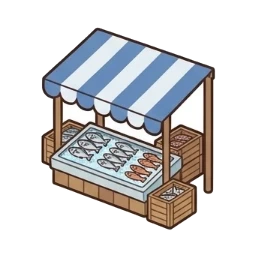
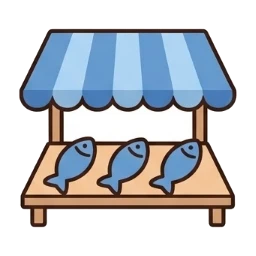
ネコネソンヌ：書きこみを 減らした 2版目の タイルの 絵に 差しかえ
Claude-Session: https://claude.ai/code/session_012vKrNFSBL5PWdXThUSTPdG

diff --git a/neko-ne-sonne/main.js b/neko-ne-sonne/main.js
@@ -16,7 +16,7 @@
 (function () {
   'use strict';
 
-  var VERSION = '2026-09-30a';   /* 画面に 出す 版（古い キャッシュで あそんで いないか 見わける ため） */
+  var VERSION = '2026-09-30b';   /* 画面に 出す 版（古い キャッシュで あそんで いないか 見わける ため） */
   var SIZE = 9, N = 81, V = 10;   /* 盤の 大きさ（newGame で 人数に あわせて きめる） */
   function setSize(size) { SIZE = size; N = size * size; V = size + 1; }
 
@@ -523,12 +523,10 @@
       '<image href="' + url + '" x="' + (-c * 340) + '" y="' + (-r * 340) + '" width="1020" height="1020" /></svg>';
   }
 
-  /* 街区の 絵（images/town-00〜17）。道の ない 平地は 1マス まるごとの 絵（銭湯・図書館・お寺・畑）、
-     ほかは まん中に 十字の 空き地が ある 絵。おなじ タイルは いつも おなじ 絵（回転しても 絵は 回さない） */
-  var TOWN_WHOLE = [6, 11, 13, 15];
-  var TOWN_LANE = [0, 1, 2, 3, 4, 5, 7, 8, 9, 10, 12, 14, 16, 17];
+  /* 街区の 絵（images/town-00〜17）。どれも まん中に 十字の 空き地が ある。
+     おなじ タイルは いつも おなじ 絵（回転しても 絵は 回さない） */
   function townOf(t) {
-    var k = !t.m && !t.shop ? TOWN_WHOLE[t.uid % TOWN_WHOLE.length] : TOWN_LANE[t.uid % TOWN_LANE.length];
+    var k = (t.uid * 7) % 18;
     return (k < 10 ? '0' : '') + k;
   }
 
@@ -536,7 +534,7 @@
   function tileSVG(t, o) {
     o = o || {};
     var s = ['<rect width="100" height="100" fill="var(--ground)" />',
-      '<image href="images/town-' + townOf(t) + '.webp" width="100" height="100" preserveAspectRatio="none" opacity=".7" />'];
+      '<image href="images/town-' + townOf(t) + '.webp" width="100" height="100" preserveAspectRatio="none" opacity=".9" />'];
     Object.keys(QUAD_RECT).forEach(function (q) {
       if (!o.quads || !o.quads[q]) return;
       var r = QUAD_RECT[q];

diff --git a/neko-ne-sonne/index.html b/neko-ne-sonne/index.html
@@ -10,11 +10,11 @@
 <link rel="icon" type="image/png" sizes="192x192" href="images/icon-192.png">
 <link rel="apple-touch-icon" href="images/icon-180.png">
 <meta name="apple-mobile-web-app-title" content="ネコネソンヌ">
-<link rel="stylesheet" href="style.css?v=20260930a">
+<link rel="stylesheet" href="style.css?v=20260930b">
 </head>
 <body>
   <div id="app"></div>
   <div class="nn-toasts" id="toasts" aria-live="polite"></div>
-  <script src="main.js?v=20260930a"></script>
+  <script src="main.js?v=20260930b"></script>
 </body>
 </html>

diff --git a/neko-ne-sonne/docs/tile-prompts.md b/neko-ne-sonne/docs/tile-prompts.md
@@ -148,12 +148,10 @@
 - **色が こい**：「全体を 明るく、パステル寄りに。上に 半透明の 色を 重ねる」と 足す
 - **道路や 線路が マスを またぐ**：「マスを またいで つながる ものは 描かない。四すみの 中で 完結させる」と 足す
 
-## できた 絵を 入れる とき（2026-09-30 に 入れた）
+## できた 絵を 入れる とき（2026-09-30 に 入れた。プロンプトを 「書きこみ少なめ」に 直して 作りなおした 2版目を 使用）
 
 - もとの 3まいは `docs/art/`（ground-a.jpg・ground-b.jpg・items.jpg）。`node docs/cut-art.js` で `images/` に 切りわける
   - 街区 → `town-00〜17.webp`（a の 9まい、b の 9まい）。魚屋 → `shop-0〜5.webp`、トンネル → `tunnel-0〜2.webp`（白い 背景は 外がわから 塗りつぶして 透明に）
 - タイルごとに 絵を きめる（`main.js` の `townOf`。おなじ タイルは いつも おなじ 絵、回転しても 絵は 回さない）
-  - 十字の 空き地が ない 1マス まるごとの 絵（銭湯 06・図書館 11・お寺 13・畑 15）は、道の ない 平地（ひるね猫の マス）に だけ つかう
-  - ほかの 14まいは 猫道の ある タイルと 魚屋に
-- 絵は 70% の 濃さで しき、その 上に なわばりの 色（58%）・猫道・ねこを 重ねる
-- 作りなおすと よい マス：文字が 入った もの（A 商店街「bakery」・A 喫茶店「cafe」・A 銭湯「ゆ」）、斜めから 見た 銭湯、A と B の 右下が ほぼ 同じ 花屋
+- 絵は 90% の 濃さで しき、その 上に なわばりの 色（58%）・猫道・ねこを 重ねる
+- 2版目は 文字・斜めの 絵・1マス まるごとの 絵が なくなり、18まい すべて まん中に 十字の 空き地が ある（重なる 猫道と ぶつからない）
